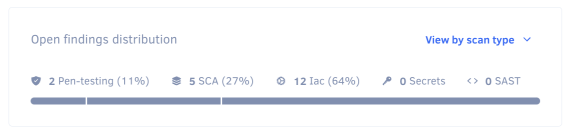
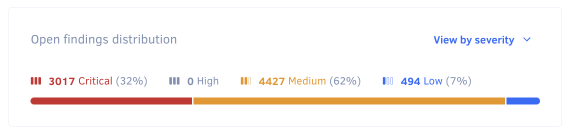
feat: Update screenshots

diff --git a/docs/organizations/managing-security-and-risk.md b/docs/organizations/managing-security-and-risk.md
@@ -17,7 +17,7 @@ Use this page to assess your organization's security posture and its progress ov
 
 To access the overview page, select an organization from the top navigation bar and select **Security and risk** on the left navigation sidebar.
 
-![Security and risk management overview page](images/security-risk-management-overview.png)<!-- TODO: Update image - scan type -->
+![Security and risk management overview page](images/security-risk-management-overview.png)
 
 The overview page includes six panels:
 
@@ -46,7 +46,7 @@ To select the desired distribution, use the drop-down in the top right-hand corn
 
 To access the findings page with the corresponding filter applied, click on a number.
 
-![Security and risk management open findings distribution panel](images/security-risk-management-overview-distribution.png)<!-- TODO: Update image - scan type -->
+![Security and risk management open findings distribution panel](images/security-risk-management-overview-distribution.png)
 
 ### Open findings history
 
